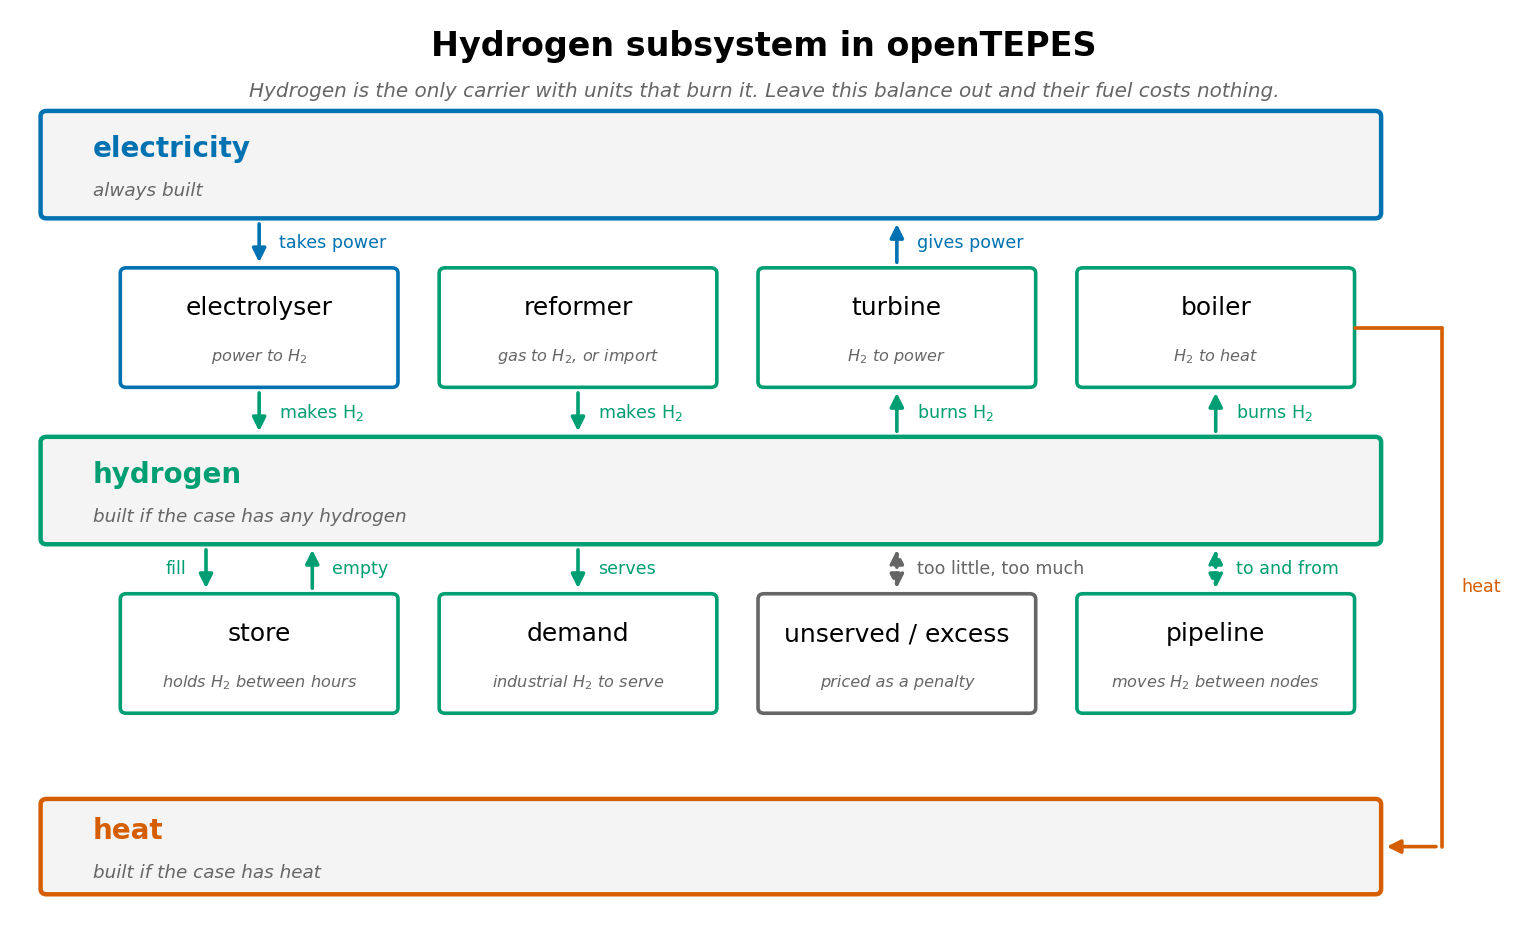
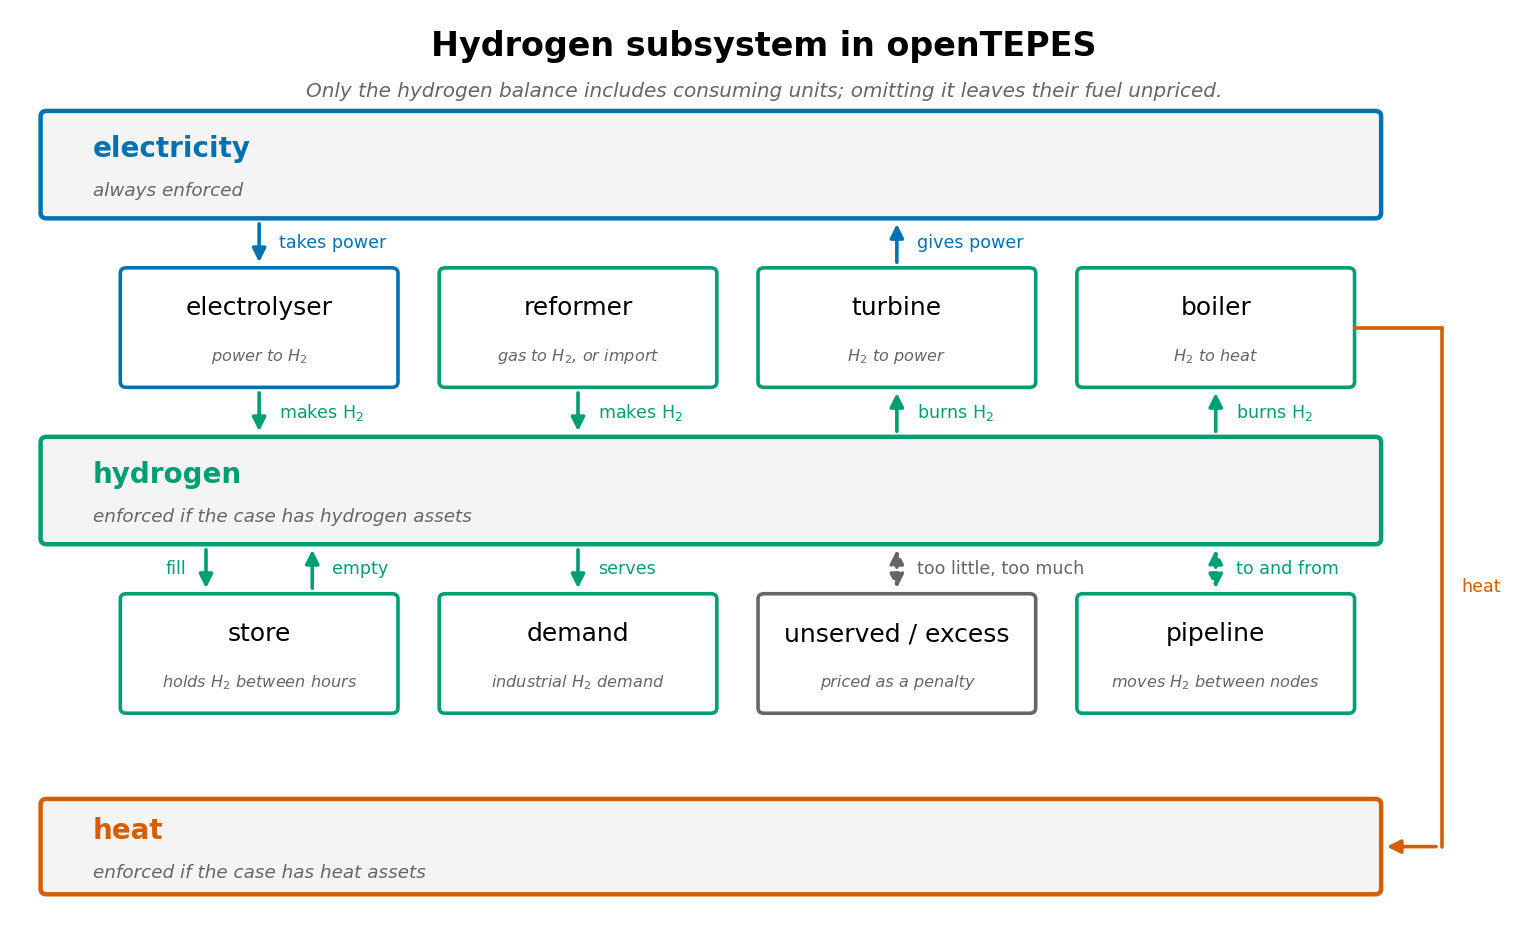
Use the sector's own vocabulary in the diagram
Three wordings were loose. A balance constraint is enforced, not built: built
describes the code assembling the model, not the formulation. The bands now
read always enforced, enforced if the case has hydrogen assets, and enforced
if the case has heat assets, naming the assets rather than the carrier.

The caption said leave this balance out and their fuel costs nothing. It now
reads: only the hydrogen balance includes consuming units; omitting it leaves
their fuel unpriced. Unpriced is the precise term, and omitting reads better
than the phrasal verb.

The demand box says industrial H2 demand rather than industrial H2 to serve.

diff --git a/doc/img/make_hydrogen_diagram.py b/doc/img/make_hydrogen_diagram.py
@@ -47,9 +47,9 @@ def elbow(pts, colour, label=None):
         ax.text(pts[1][0] + 1.5, (pts[1][1] + pts[2][1])/2, label, fontsize=6.3,
                 color=colour, va="center")
 
-band(58, 8, ELEC, "electricity", "always built")
-band(31, 8, H2,   "hydrogen", "built if the case has any hydrogen")
-band(2,  7, HEAT, "heat", "built if the case has heat")
+band(58, 8, ELEC, "electricity", "always enforced")
+band(31, 8, H2,   "hydrogen", "enforced if the case has hydrogen assets")
+band(2,  7, HEAT, "heat", "enforced if the case has heat assets")
 
 XS, W, H = (8, 32, 56, 80), 20, 9
 box(XS[0], 44, W, H, "electrolyser", "power to H$_2$", ELEC)
@@ -66,7 +66,7 @@ arrow(90, 39, 44, H2,   "burns H$_2$")             # balance -> boiler
 elbow([(100 + PAD, 48.5), (107, 48.5), (107, 5.5), (102 + PAD, 5.5)], HEAT, "heat")
 
 box(XS[0], 17, W, H, "store",    "holds H$_2$ between hours", H2)
-box(XS[1], 17, W, H, "demand",   "industrial H$_2$ to serve", H2)
+box(XS[1], 17, W, H, "demand",   "industrial H$_2$ demand", H2)
 box(XS[2], 17, W, H, "unserved / excess", "priced as a penalty", GREY)
 box(XS[3], 17, W, H, "pipeline", "moves H$_2$ between nodes", H2)
 
@@ -77,7 +77,7 @@ arrow(66, 31, 26, GREY, "too little, too much", dashed=True, both=True)
 arrow(90, 31, 26, H2, "to and from", dashed=True, both=True)
 
 ax.text(56, 71, "Hydrogen subsystem in openTEPES", ha="center", fontsize=12, weight="bold")
-ax.text(56, 67.6, "Hydrogen is the only carrier with units that burn it. Leave this balance out and their fuel costs nothing.",
+ax.text(56, 67.6, "Only the hydrogen balance includes consuming units; omitting it leaves their fuel unpriced.",
         ha="center", fontsize=7.2, style="italic", color=GREY)
 fig.savefig("doc/img/HydrogenSubsystem.png", dpi=200, bbox_inches="tight")
 print("wrote doc/img/HydrogenSubsystem.png")
